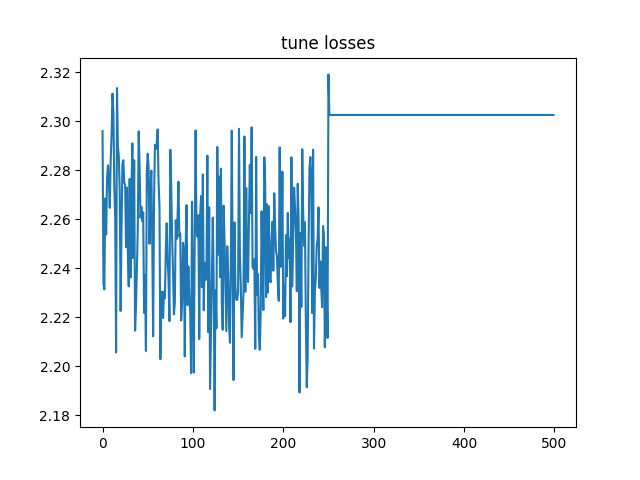
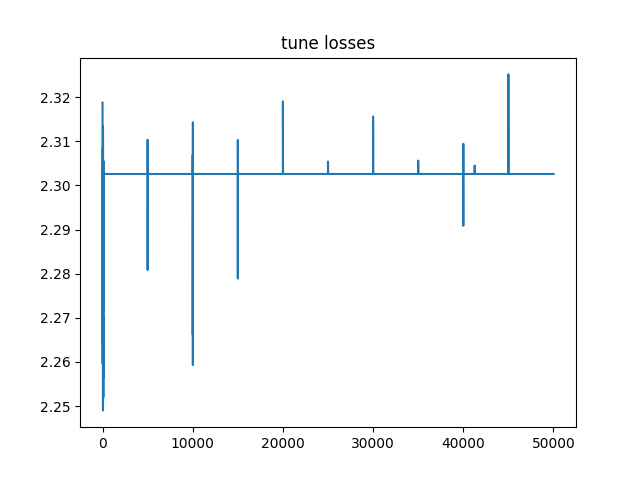
ran the code overnight

diff --git a/runCIFAR.py b/runCIFAR.py
@@ -113,7 +113,7 @@ def end_to_end():
   simclr = SimCLR(model)
 
   results = simclr.full_model_maker(
-    train_data, tune_data, val_data, n_cycles=2, train_epochs=1, tune_epochs=1,
+    train_data, tune_data, val_data, n_cycles=10, train_epochs=10, tune_epochs=20,
     train_path='chkpt/train.tar', tune_path='chkpt/tune.tar'
   )
 
